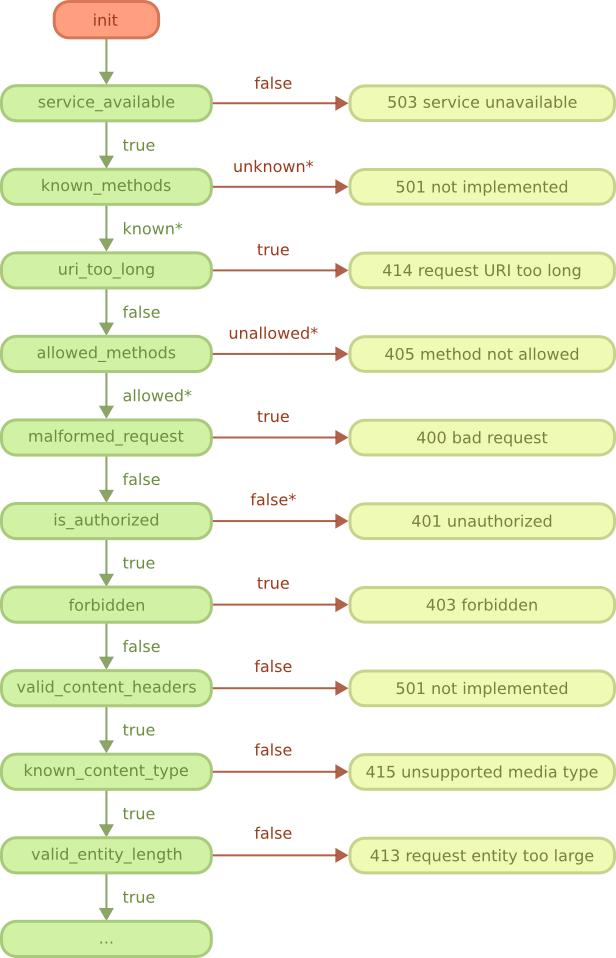
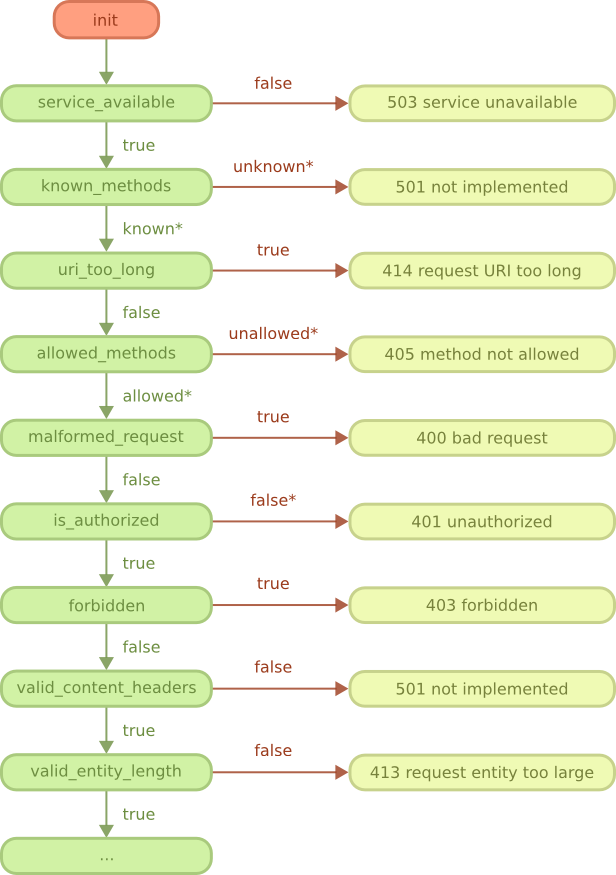
Remove the REST known_content_type callback
This callback was simply useless.

diff --git a/ROADMAP.md b/ROADMAP.md
@@ -52,9 +52,6 @@ functions and the new response function described above.
 
 ### REST
 
-The `known_content_type` callback has no purpose, so it
-is going to be removed.
-
 The documentation for all REST callbacks will be updated
 to describe whether they can have side effects. This will
 allows us to build introspection tools on top of a working
